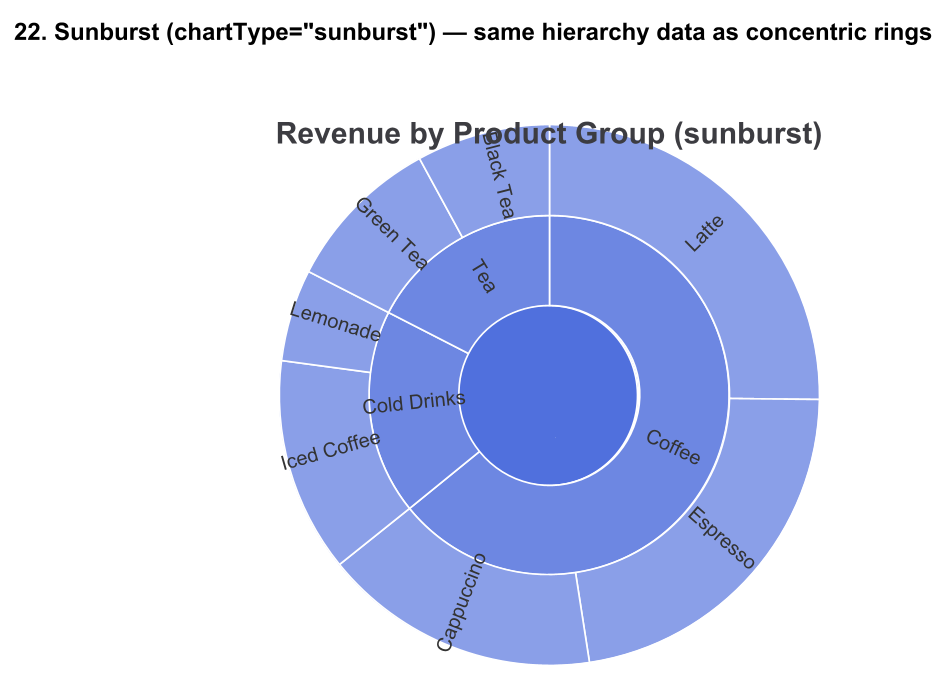
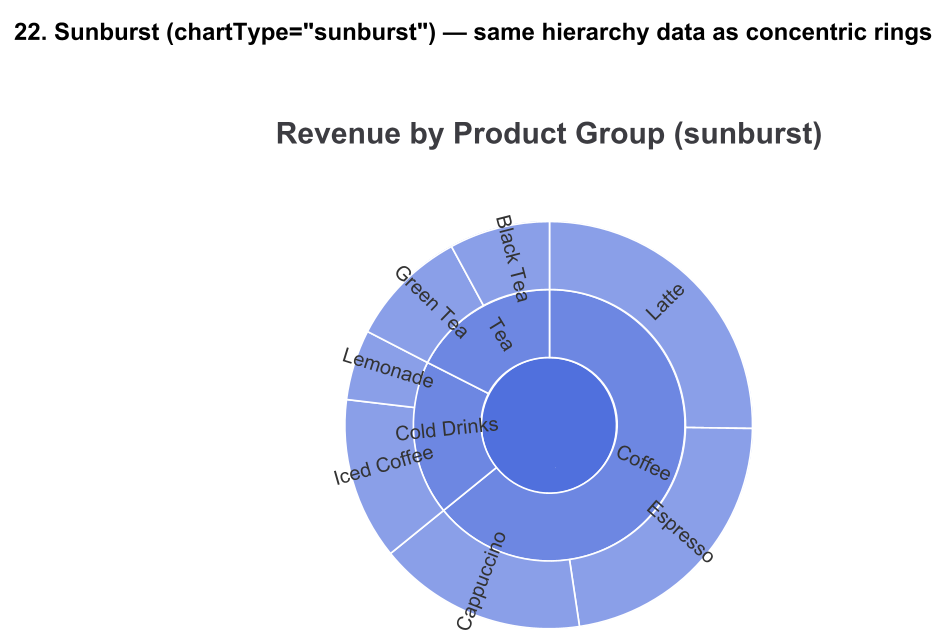
Keep titled sunburst clear of the chart title
A sunburst fills 90% of the canvas from the exact center, so with a
title the outer ring ran into the title text. When a title/subtitle is
present the series is shrunk and lowered before the rawOption merge,
so explicit radius/center overrides still win. Applies to report
output and the design-time preview alike; README gallery image updated.

Changed region(s): [[0.2762, 0.1555, 0.8899, 0.9953], [0.0, 0.0311, 1.0, 0.0622]]

diff --git a/src/main/java/tech/charteon/model/EChartsOptionBuilder.java b/src/main/java/tech/charteon/model/EChartsOptionBuilder.java
@@ -130,6 +130,10 @@ public final class EChartsOptionBuilder
 			}
 
 			addTitle(option, title, subtitle);
+			if (title != null || subtitle != null)
+			{
+				clearTitleOverlap(option, subtitle != null);
+			}
 			addLegend(option, settings.type(), component.getShowLegend());
 			addColorPalette(option, settings);
 
@@ -215,6 +219,32 @@ public final class EChartsOptionBuilder
 				titleNode.put("subtext", subtitle);
 			}
 			titleNode.put("left", "center");
+		}
+	}
+
+	/**
+	 * Full-canvas radial series (sunburst fills 90% of the shorter edge from
+	 * the exact center) would extend into a top-centered title; shrink and
+	 * lower them so the title keeps its own band. Applied before the rawOption
+	 * merge, so user-supplied radius/center still win.
+	 */
+	private static void clearTitleOverlap(ObjectNode option, boolean hasSubtitle)
+	{
+		JsonNode series = option.get("series");
+		if (!(series instanceof ArrayNode seriesArray))
+		{
+			return;
+		}
+		for (JsonNode entry : seriesArray)
+		{
+			if (entry instanceof ObjectNode seriesNode
+				&& "sunburst".equals(seriesNode.path("type").asText()))
+			{
+				seriesNode.put("radius", hasSubtitle ? "62%" : "68%");
+				ArrayNode center = seriesNode.putArray("center");
+				center.add("50%");
+				center.add(hasSubtitle ? "57%" : "55%");
+			}
 		}
 	}
 

diff --git a/CHANGELOG.md b/CHANGELOG.md
@@ -6,6 +6,14 @@ adheres to [Semantic Versioning](https://semver.org/).
 
 ## [Unreleased]
 
+### Fixed
+
+- **Sunburst no longer collides with the chart title.** A titled sunburst
+  filled 90% of the canvas from the exact center, so the top ring ran into the
+  title text. With a title/subtitle present the series is now shrunk and
+  lowered automatically (report output and design preview alike); an explicit
+  `radius`/`center` in `optionExpression` still takes precedence.
+
 ## [0.3.0] - 2026-07-10
 
 ### Added
